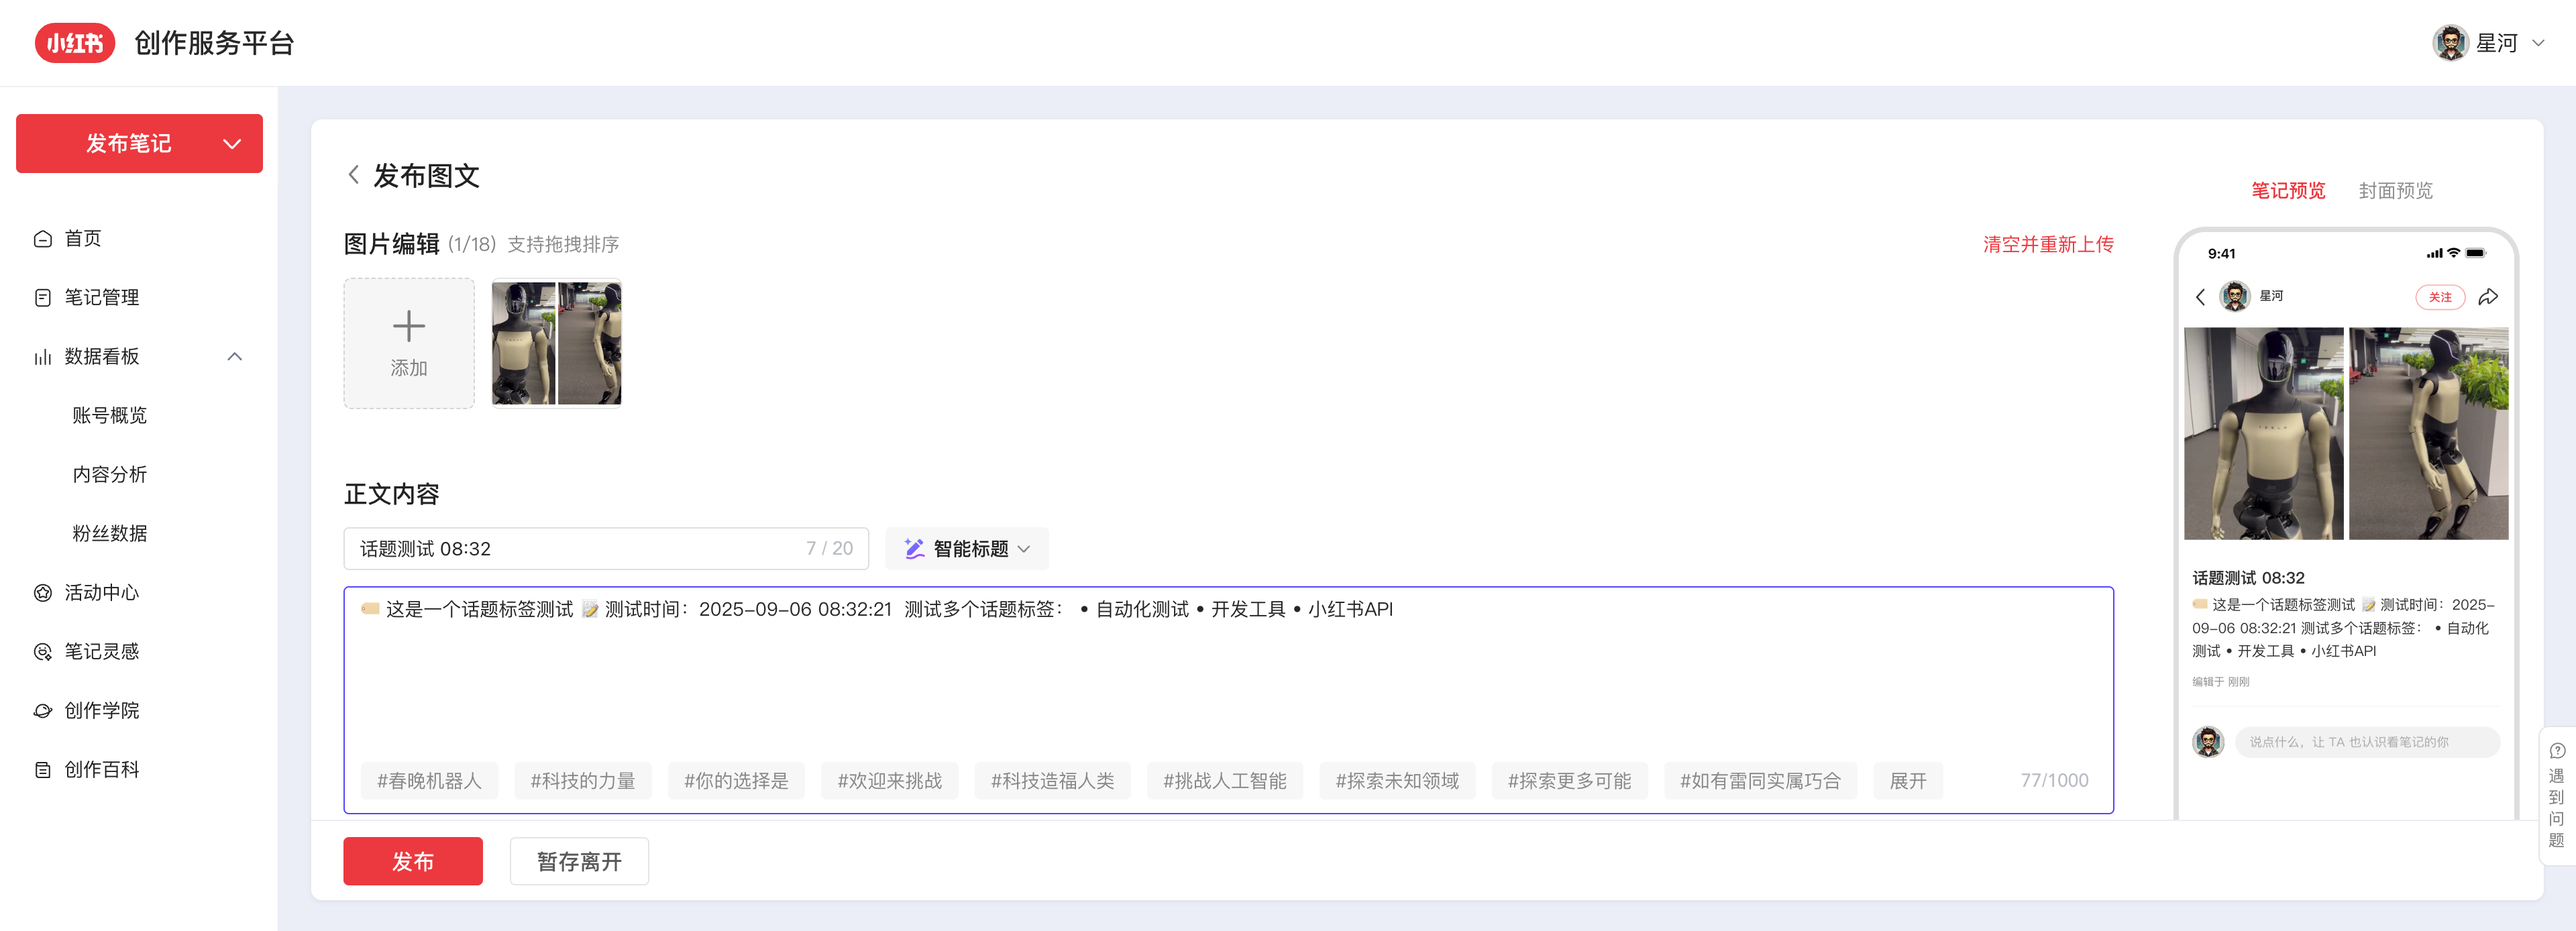
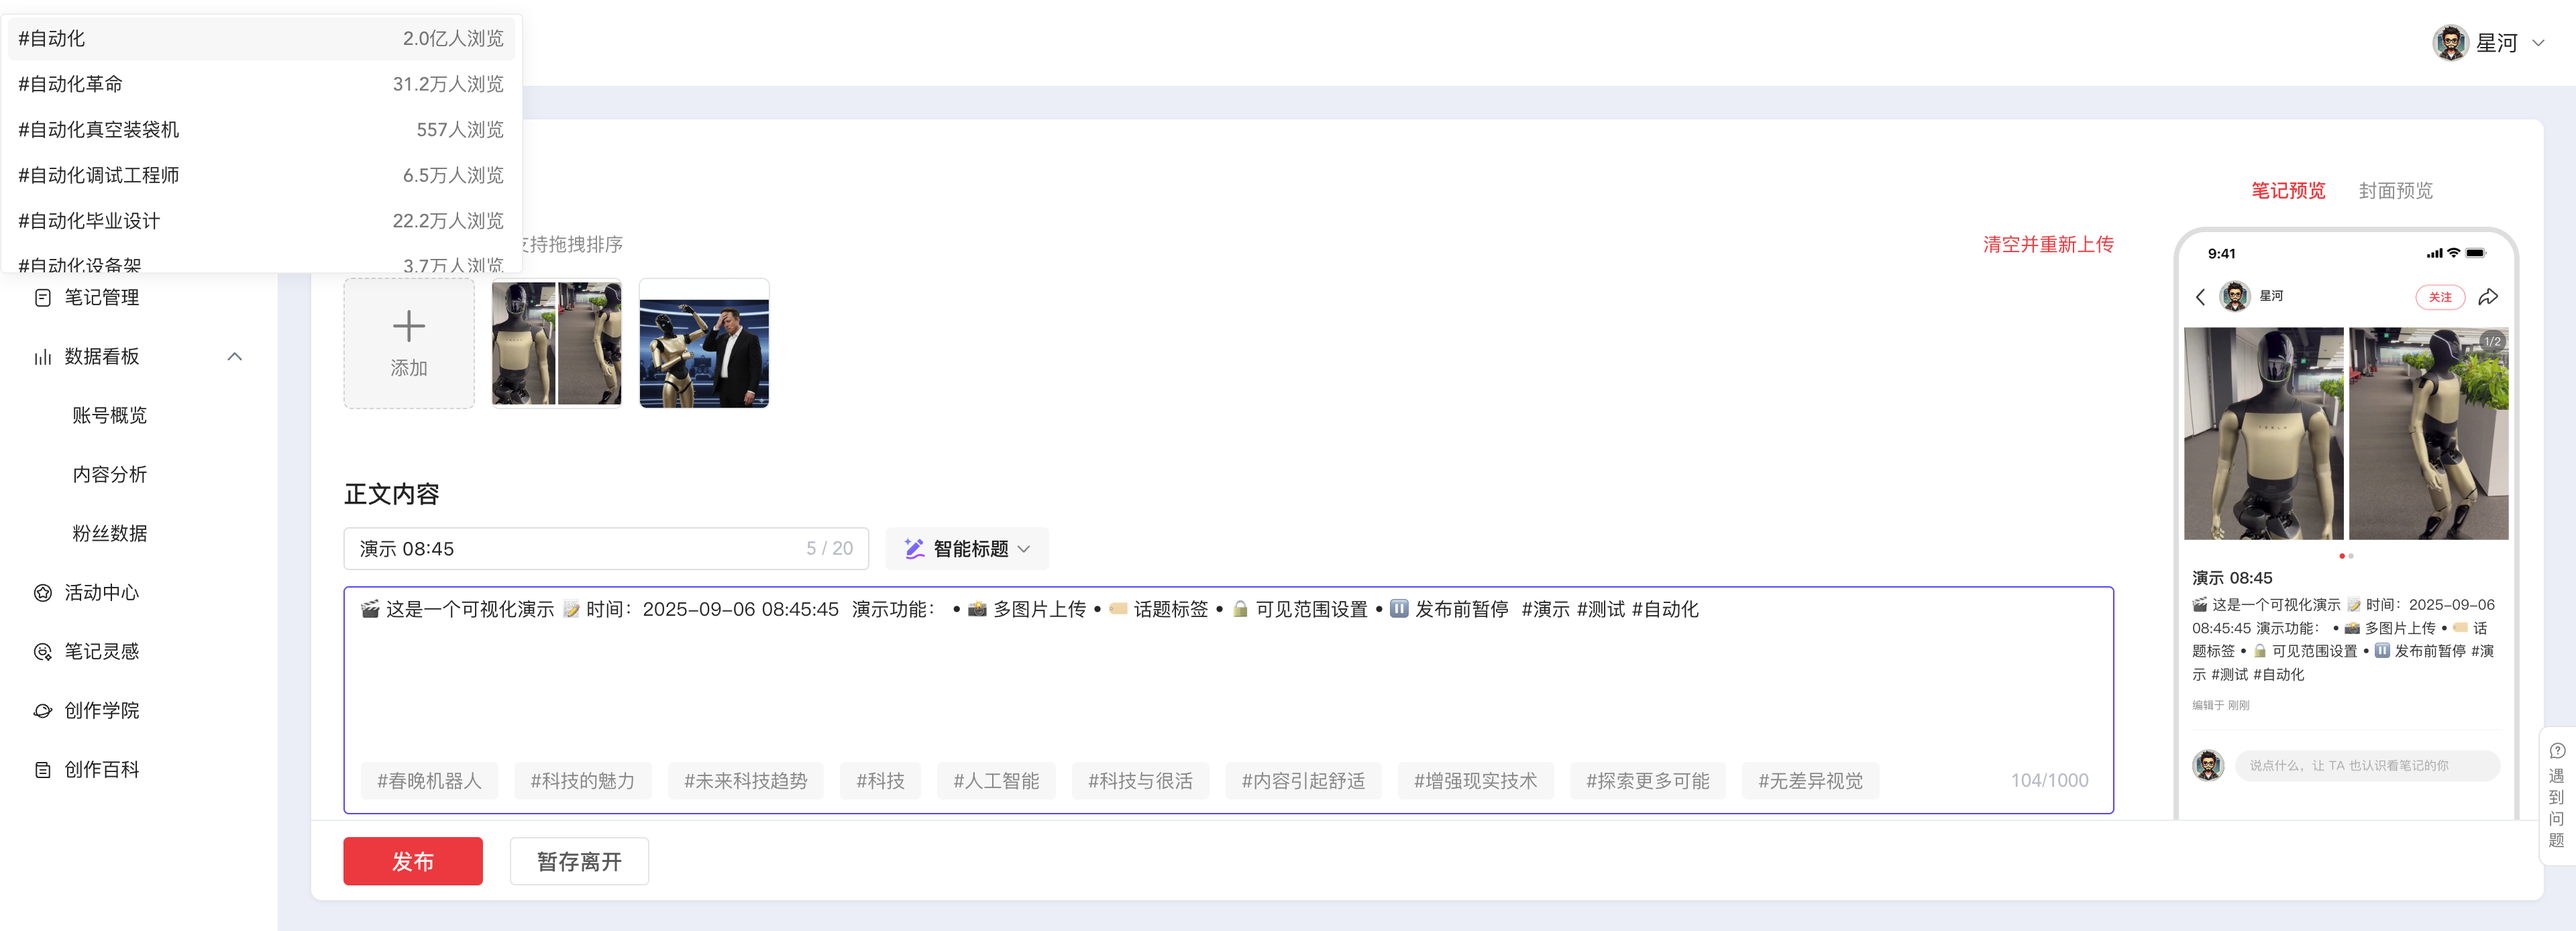
claude: 开发会话完成 - 2025-09-06 08:47:10

diff --git a/tests/demo_visual_pause.py b/tests/demo_visual_pause.py
@@ -1,0 +1,139 @@
+#!/usr/bin/env python3
+"""
+可视化演示发布流程，在最终发布前暂停
+"""
+
+import sys
+import os
+import asyncio
+from pathlib import Path
+from datetime import datetime
+
+# 添加项目根目录到Python路径
+sys.path.insert(0, os.path.dirname(os.path.dirname(os.path.abspath(__file__))))
+
+from src.xiaohongshu.client import XHSClient
+from src.xiaohongshu.models import XHSNote
+from src.core.config import XHSConfig
+from src.utils.logger import setup_logger, get_logger
+
+setup_logger()
+logger = get_logger()
+
+async def demo_publish_with_pause():
+    """演示发布流程，在点击发布按钮前暂停"""
+    logger.info("\n" + "="*60)
+    logger.info("🎬 开始可视化演示发布流程")
+    logger.info("="*60)
+    
+    config = XHSConfig()
+    client = XHSClient(config)
+    
+    # 强制关闭无头模式，显示浏览器
+    client.browser_manager.headless = False
+    logger.info("✅ 已设置为可视化模式（关闭无头）")
+    
+    # 获取测试图片
+    test_images_dir = Path(__file__).parent / "test_images"
+    test_images = [
+        str(test_images_dir / "tesla-optimus-next-gen-reveal.jpg"),
+        str(test_images_dir / "image.png")
+    ]
+    
+    # 只使用存在的图片
+    valid_images = [img for img in test_images if Path(img).exists()]
+    
+    if not valid_images:
+        logger.error("❌ 未找到测试图片")
+        return False
+    
+    logger.info(f"📸 使用测试图片: {valid_images}")
+    
+    # 创建演示笔记
+    note = XHSNote(
+        title=f"演示 {datetime.now().strftime('%H:%M')}",
+        content=f"""
+🎬 这是一个可视化演示
+📝 时间：{datetime.now().strftime('%Y-%m-%d %H:%M:%S')}
+
+演示功能：
+• 📸 多图片上传
+• 🏷 话题标签
+• 🔒 可见范围设置
+• ⏸ 发布前暂停
+
+#演示 #测试 #自动化
+        """.strip(),
+        images=valid_images[:2],  # 使用2张图片
+        topics=["演示", "自动化测试", "小红书工具"],
+        visibility="private",  # 设置为仅自己可见
+        dry_run=True  # 使用dry_run模式，不会真正点击发布
+    )
+    
+    try:
+        logger.info("🚀 开始执行发布流程...")
+        logger.info("📌 设置为仅自己可见")
+        logger.info("📌 DRY-RUN模式：将在发布前停止")
+        
+        # 在发布前添加暂停提示
+        logger.info("\n" + "="*60)
+        logger.info("⏸  脚本将在点击发布按钮前暂停")
+        logger.info("📌 你可以检查页面上的所有内容")
+        logger.info("📌 由于启用了dry_run，不会真正发布")
+        logger.info("="*60 + "\n")
+        
+        result = await client.publish_note(note)
+        
+        if result.success:
+            logger.info("\n" + "="*60)
+            logger.info("✅ 演示成功完成！")
+            logger.info(f"📝 消息: {result.message}")
+            # 等待时间已经在client.py的dry_run模式中处理了
+            return True
+        else:
+            logger.error(f"❌ 演示失败: {result.message}")
+            return False
+            
+    except Exception as e:
+        logger.error(f"❌ 演示出错: {e}")
+        import traceback
+        logger.error(f"错误详情:\n{traceback.format_exc()}")
+        
+        # 出错时也保持浏览器打开让你查看
+        logger.info("⏰ 出错了，保持浏览器打开20秒供检查...")
+        await asyncio.sleep(20)
+        return False
+    finally:
+        # 浏览器关闭已经在client.py的finally块中处理
+        pass
+
+async def main():
+    """主函数"""
+    logger.info("🎭 小红书发布流程可视化演示")
+    logger.info("📌 功能：关闭无头模式，发布前暂停")
+    
+    # 检查cookies
+    config = XHSConfig()
+    from src.auth.cookie_manager import CookieManager
+    cookie_manager = CookieManager(config)
+    cookies = cookie_manager.load_cookies()
+    
+    if not cookies:
+        logger.error("❌ 未找到有效的cookies，请先登录")
+        logger.info("💡 提示：运行 python tests/test_login.py 进行登录")
+        return
+    
+    logger.info("✅ 找到有效的cookies")
+    
+    # 运行演示
+    success = await demo_publish_with_pause()
+    
+    if success:
+        logger.info("\n🎉 演示成功！")
+        logger.info("📌 由于启用了dry_run模式，笔记未实际发布")
+        logger.info("📌 你可以在dry_run_preview.png查看截图")
+    else:
+        logger.error("\n❌ 演示失败")
+
+if __name__ == "__main__":
+    asyncio.run(main())

diff --git a/src/xiaohongshu/client.py b/src/xiaohongshu/client.py
@@ -700,7 +700,16 @@ class XHSClient:
                 self.browser_manager.take_screenshot(screenshot_path)
                 logger.info(f"📸 预览截图已保存: {screenshot_path}")
                 
-                # 等待几秒让用户查看
+                # 在dry_run模式下，保持浏览器打开供查看
+                logger.info("⏰ 保持浏览器打开30秒供查看...")
+                logger.info("📌 你可以检查：")
+                logger.info("   - 图片是否上传成功")
+                logger.info("   - 标题和内容是否正确")
+                logger.info("   - 话题标签是否添加")
+                logger.info("   - 可见范围设置")
+                await asyncio.sleep(30)
+                
+                logger.info("⏰ 即将关闭浏览器...")
                 await asyncio.sleep(3)
                 
                 return XHSPublishResult(
